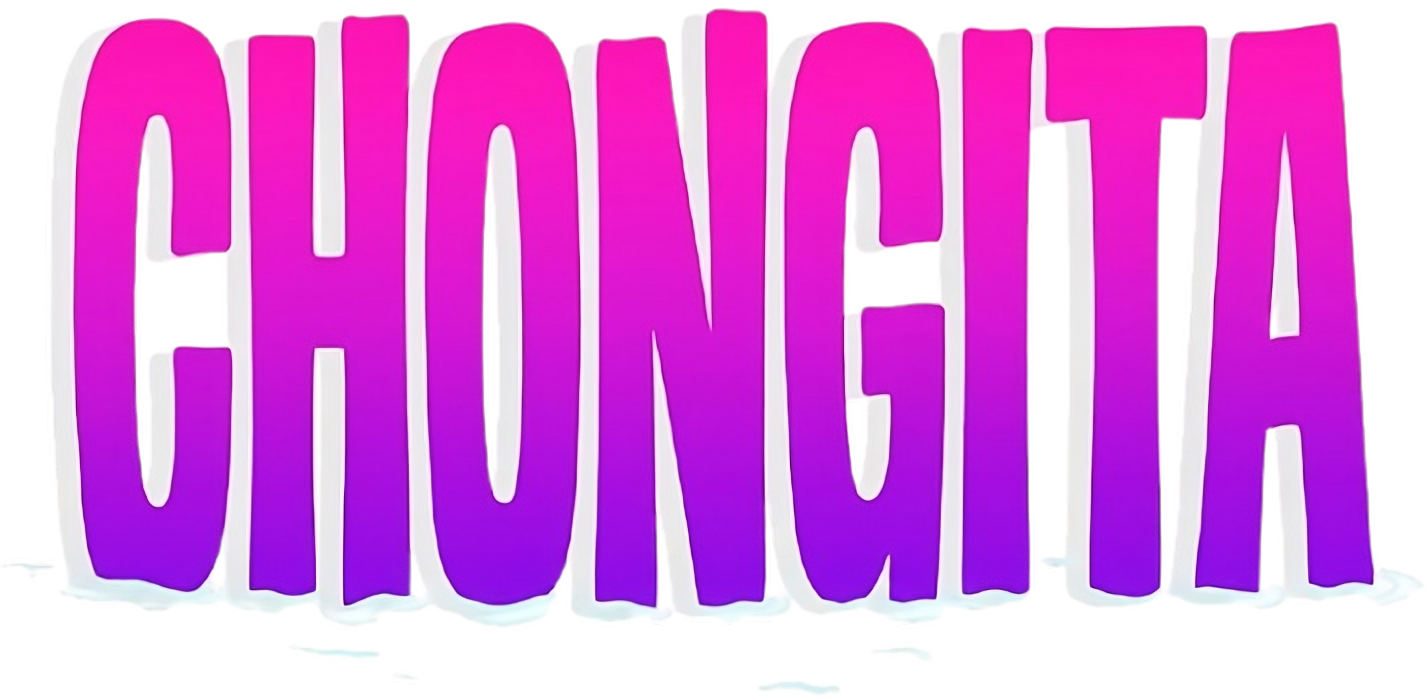
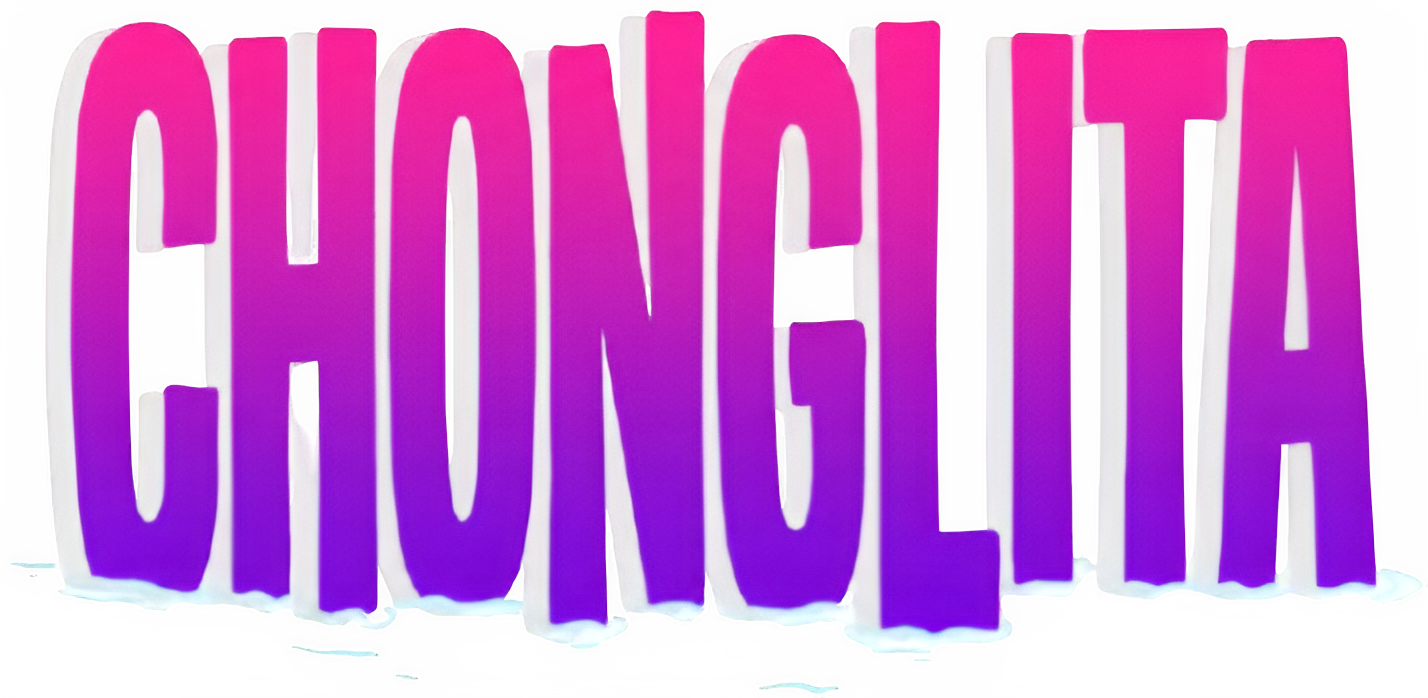
changed to chonglita

diff --git a/index.html b/index.html
@@ -2,7 +2,7 @@
 <html lang="en">
   <head>
     <title>
-      CHONGITA
+      CHONGLITA
     </title>
     <meta charset="UTF-8" />
     <meta name="format-detection" content="telephone=no" />
